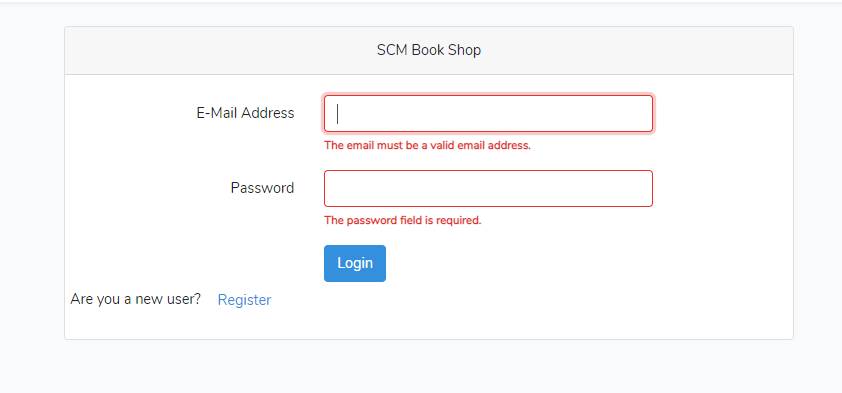
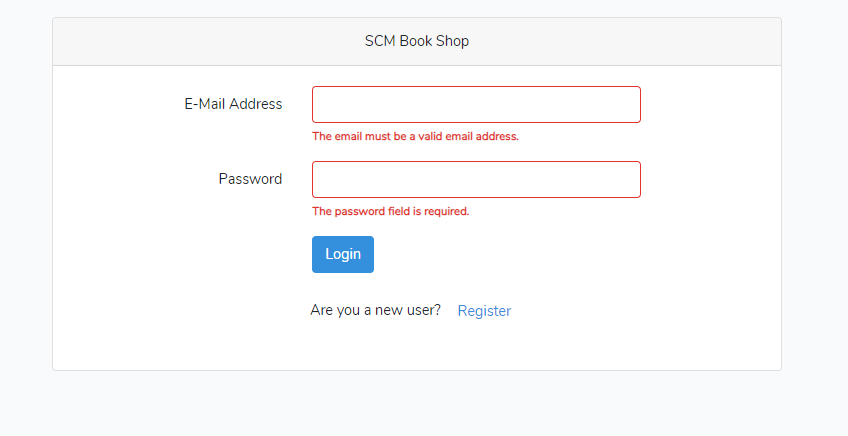
upload photo

diff --git a/resources/views/auth/login.blade.php b/resources/views/auth/login.blade.php
@@ -20,15 +20,6 @@
                     </div>
                 @endif
 
-                <!-- @if ($errors->any())
-                    <div class="alert alert-danger">
-                        <ul>
-                            @foreach ($errors->all() as $error)
-                                <li>{{ $error }}</li>
-                            @endforeach
-                        </ul>
-                    </div>
-                @endif -->
                     <form method="POST" action="{{ route('login') }}">
                         @csrf
 
@@ -61,18 +52,6 @@
                             </div>
                         </div>
 
-                        <!-- <div class="form-group row">
-                            <div class="col-md-6 offset-md-4">
-                                <div class="form-check">
-                                    <input class="form-check-input" type="checkbox" name="remember" id="remember" {{ old('remember') ? 'checked' : '' }}>
-
-                                    <label class="form-check-label" for="remember">
-                                        {{ __('Remember Me') }}
-                                    </label>
-                                </div>
-                            </div>
-                        </div> -->
-
                         <div class="form-group row mb-0">
                             <div class="col-md-8 offset-md-4">
                                 <button type="submit" class="btn btn-primary">
@@ -80,7 +59,7 @@
                                 </button>
                                 
                             </div>
-                        <div>
+                        <div class="card-body text-center">
                             @if (Route::has('password.request'))
                             {{('Are you a new user?')}}
                                     <a class="btn btn-link" href="{{route('register')}}">

diff --git a/app/Http/Controllers/Auth/LoginController.php b/app/Http/Controllers/Auth/LoginController.php
@@ -61,10 +61,8 @@ class LoginController extends Controller
     }
 
       if(Auth::attempt(['email'=>$email,'password'=>$password])) {
-        // Log::info("Login succeeded");
         return redirect('/home')->with('success','login success');
       }else{
-        // Log::info("Login failed");
         return redirect()->intended('login')
           ->with('loginError', 'login failed');  
       }  
